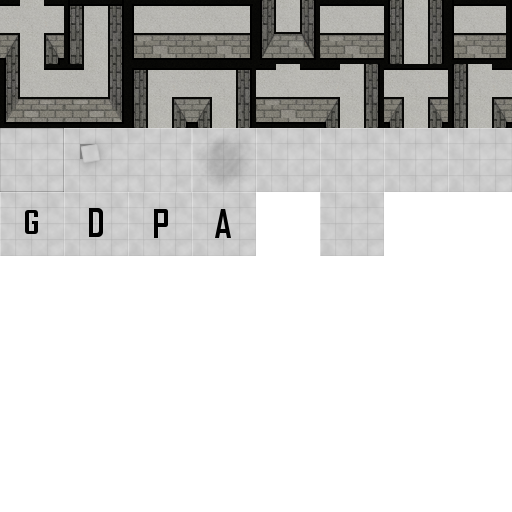
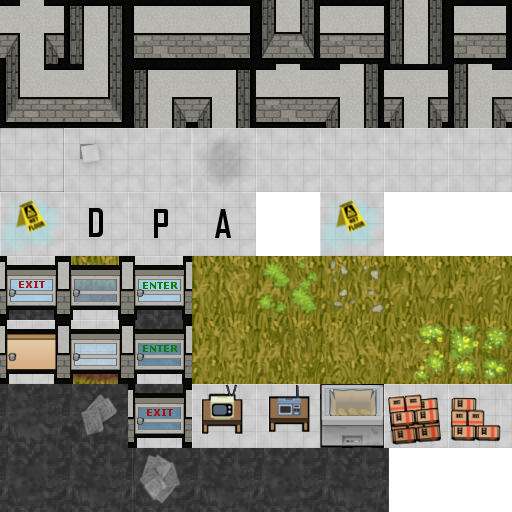
New tiles, pawns now wait on node with value > 0, clean up of old tests

diff --git a/source/tests3.html b/source/tests3.html
@@ -77,8 +77,8 @@
 		// Map values
 		var map_raw = 
 		   ["************************************************",
-			"*      *              *                    A   *",
-			"* ** A  *   ********** *             *   *     *",
+			"*      *              *                        *",
+			"* **    *   ********** *             *   *     *",
 			"* **    *     *      * * *******     *****     *",
 			"*  *    ****  * G*   *   GGG      *  *         *",
 			"*  *        *  * G*   *******     *  ******    *",
@@ -90,13 +90,14 @@
 			"* G****  *        *************  ******   *    *",
 			"* GGGGGGGGG *          GGGG  *           *     *",
 			"****** ******     ****  GGGG  *      ********  *",
-			"*           *     *       GGG *                *",
+			"*           *     *       GGG *      333333    *",
 			"*  ******   *                                  *",
-			"*   *                                   D      *",
-			"*    D      *                                  *",
-			"************************************************"];
+			"*   *                     111 111              *",
+			"*           *                                  *",
+			"****************AA*AA*****************DDD*******",
+			"CCCCCCCCCCCCCCCCCCCCCCCCCCCCCCCCCCCCCCCCCCCCCCCC"];
 		var coords = {
-			" "  : [ { x : 0, y : 128}, { x : 64, y : 128 }, { x : 128, y : 128 }, { x : 192, y : 128 }, { x : 256, y : 128 }  ], 
+			" "  : [ { x : 0, y : 128}, { x : 64, y : 128 }, { x : 128, y : 128 }, { x : 192, y : 128 }, { x : 256, y : 128 } ], 
 			"*"  : {x: 448, y: 0 },
 			"*0" : {x: 448, y: 0 },
 			"*1" : {x: 256, y: 0 },
@@ -115,9 +116,13 @@
 			"*14": {x: 384, y: 64},
 			"*15": {x: 0  , y: 0 },
 			"G"  : {x: 0  , y: 192},
-			"D"  : {x: 64 , y: 192},
+			"D"  : {x: 128, y: 256},
 			"P"  : {x: 128, y: 192},
-			"A"  : {x: 192, y: 192},
+			"A"  : {x: 0  , y: 256},
+			"C"  : [ {x: 0  , y: 384}, {x:  64, y : 384}, {x : 0, y : 448}, {x :  64, y : 448}, {x : 128, y : 448}, {x : 192, y : 448}, {x : 256, y : 448}, {x : 320, y : 448} ],
+			"1"  : [ {x: 192, y: 384}, {x: 256, y : 384} ],
+			"2"  : {x: 320, y : 384},
+			"3"  : [ {x: 384, y: 384}, {x: 448, y : 384} ]
 		};
 		var tileset = new Tileset(loader.get("floor.png"), 64, coords);
 
@@ -181,6 +186,7 @@
 
 		document.getElementById('zoomReset').onclick = function() {
 			drawer.reset();
+			drawer.updateDisplay(true);
 		}
 
 		document.getElementById('debug').onclick = function() {
@@ -313,13 +319,18 @@
 				var pawn = pawns[i];
 				var dest = dests[i];
 
-				// Get the path
-				var result = g.dijkstraImproved(pawn.node, dest, time, pawn);
-				results.push(result);
+				if(pawn.time_to_wait <= 0) {
 
-				// If not bloqued, update the position
-				if(result) {
-					pawn.updatePosition(result);
+					// Get the path
+					var result = g.dijkstraImproved(pawn.node, dest, time, pawn);
+					results.push(result);
+
+					// If not bloqued, update the position
+					if(result) {
+						pawn.updatePosition(result);
+					}
+				} else {
+					pawn.time_to_wait--;
 				}
 			}
 

diff --git a/source/index.html b/source/index.html
@@ -5,13 +5,10 @@
 	<meta http-equiv="Content-Type" content="text/html; charset=utf-8" />
 </head>
 <body>
-	<canvas id="Canvas" width="1400" height="600"> 
-		La version de votre navigateur ne supporte pas Canvas :(
-	</canvas>
-	<script type="text/javascript" src="tileset.js"></script>
-	<script type="text/javascript" src="map.js"></script>
-	<script type="text/javascript" src="graph.js"></script>
-	<script type="text/javascript" src="main.js"></script>
-	<div id="timer"></div>
+	<h1>Tests</h1>
+	<ul>
+		<li><a href="test_loader.html">Test of image loader</a></li>
+		<li><a href="tests3.html">Test of Djikstra + Image loading + Grap display/construction</a></li>
+	</ul>
 </body>
 </html>

diff --git a/source/map.js b/source/map.js
@@ -19,6 +19,16 @@ Map = function(context, terrain, tileset) {
 };
 
 /**
+ * Get node coordonates from x and y pixel position on the map.
+ * @param  {number} x X position in pixels.
+ * @param  {number} y Y position in pixels.
+ * @return {Object}   The X and Y of the node in the grap.
+ */
+Map.prototype.getCoords = function(x, y) {
+	return { x : ~~(x / this.tileset.tile_size), y : ~~(y / this.tileset.tile_size)};
+};
+
+/**
  * Return the width of the displayed map in pixel.
  * @return {number} The width in pixel of the map.
  */

diff --git a/source/graph.js b/source/graph.js
@@ -595,6 +595,7 @@ Path.prototype.getPath = function() {
 Pawn = function(id, node) {
 	this.id = id;
 	this.node = node;
+	this.time_to_wait = 0;
 };
 
 /**
@@ -606,6 +607,7 @@ Pawn.prototype.setPosition = function(node) {
 		this.node.pawn = null;
 	this.node = node;
 	node.pawn = this;
+	this.time_to_wait = node.value;
 };
 
 /**

diff --git a/source/canvas_handler.js b/source/canvas_handler.js
@@ -73,7 +73,7 @@ CanvasHandler.prototype.initEvents = function() {
 
 	canvas.onclick = function(e) {
 		if(this.onclick)
-			this.onclick(e.offsetX - this.x, e.offsetY - this.y, e);
+			this.onclick((e.offsetX - this.x) * this.zoom, (e.offsetY - this.y, e) * this.zoom, e);
 	};
 };
 
